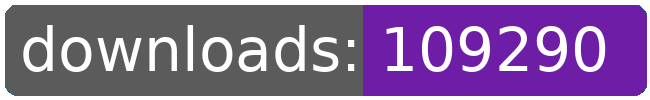
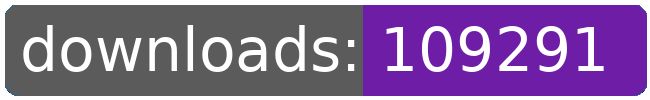
dl log written

Changed region(s): [[0.8615, 0.24, 0.9538, 0.72]]

diff --git a/README.md b/README.md
@@ -21,8 +21,8 @@
 		<td>7400</td>
 		<td>7425</td>
 		<td>7451</td>
-		<td>7473</td>
-		<td>+ 22</td>
+		<td>7474</td>
+		<td>+ 23</td>
 	</tr>
 	<tr>
 		<td>aberrant.kahet.outfitter</td>
@@ -274,8 +274,8 @@
 		<td></td>
 		<td></td>
 		<td></td>
-		<td>109290</td>
-		<td>455</td>
+		<td>109291</td>
+		<td>456</td>
 	</tr>
 </table>
 </sub></sup>
@@ -300,8 +300,8 @@
 		<td>7400</td>
 		<td>7425</td>
 		<td>7451</td>
-		<td>7473</td>
-		<td>+ 22</td>
+		<td>7474</td>
+		<td>+ 23</td>
 	</tr>
 	<tr>
 		<td>aberrant.kahet.outfitter</td>
@@ -553,8 +553,8 @@
 		<td></td>
 		<td></td>
 		<td></td>
-		<td>109290</td>
-		<td>455</td>
+		<td>109291</td>
+		<td>456</td>
 	</tr>
 </table>
 </sub></sup>
